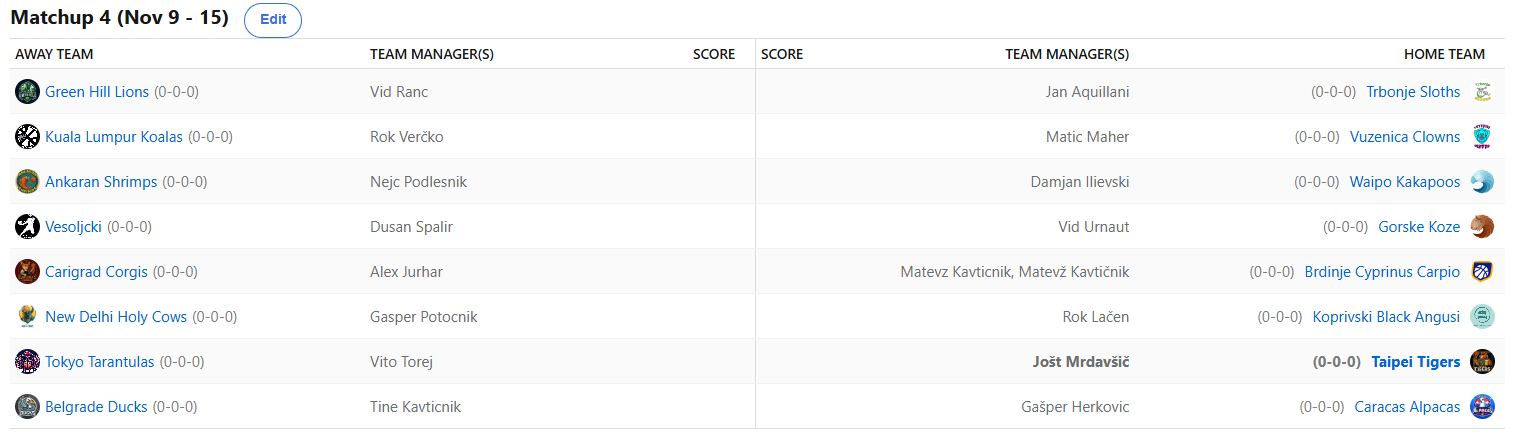
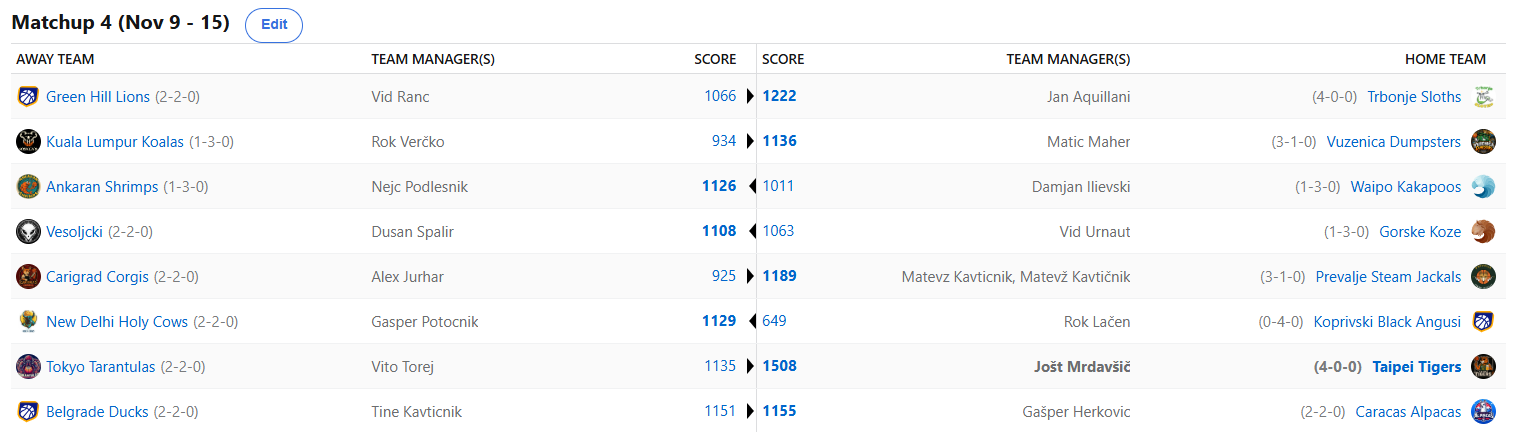
.

diff --git a/trenutnalestvica.html b/trenutnalestvica.html
@@ -25,116 +25,168 @@
         <tr>
             <th style="background-color: green">1</th>
             <th style="background-color: green">Taipei Tigers</th>
-            <th style="background-color: green">3</th>
+            <th style="background-color: green">4</th>
             <th style="background-color: green">0</th>
             <th style="background-color: green">100%</th>
         </tr>
         <tr>
             <th style="background-color: green">2</th>
             <th style="background-color: green">Trbonje Sloths</th>
-            <th style="background-color: green">3</th>
+            <th style="background-color: green">4</th>
             <th style="background-color: green">0</th>
             <th style="background-color: green">100%</th>
         </tr>
         <tr>
             <th>3</th>
-            <th>Tokyo Tarantulas</th>
-            <th>2</th>
+            <th>Vuzenica Dumpsters</th>
+            <th>3</th>
             <th>1</th>
-            <th>67%</th>
+            <th>75%</th>
         </tr>
         <tr>
             <th>4</th>
-            <th>Carigrad Corgis</th>
-            <th>2</th>
+            <th>Prevalje Steam Jackals</th>
+            <th>3</th>
             <th>1</th>
-            <th>67%</th>
+            <th>75%</th>
         </tr>
         <tr>
             <th>5</th>
-            <th>Vuzenica Dumpsters</th>
+            <th>Tokyo Tarantulas</th>
             <th>2</th>
-            <th>1</th>
-            <th>67%</th>
+            <th>2</th>
+            <th>50%</th>
         </tr>
         <tr>
             <th>6</th>
-            <th>Prevalje Steam Jackals</th>
+            <th>Caracas Alpacas</th>
             <th>2</th>
-            <th>1</th>
-            <th>67%</th>
+            <th>2</th>
+            <th>50%</th>
         </tr>
         <tr>
             <th>7</th>
-            <th>Green Hill Lions</th>
+            <th>Belgrade Ducks</th>
             <th>2</th>
-            <th>1</th>
-            <th>67%</th>
+            <th>2</th>
+            <th>50%</th>
         </tr>
         <tr>
             <th>8</th>
-            <th>Belgrade Ducks</th>
+            <th>Carigrad Corgis</th>
             <th>2</th>
-            <th>1</th>
-            <th>67%</th>
+            <th>2</th>
+            <th>50%</th>
         </tr>
         <tr>
             <th>9</th>
-            <th>Caracas Alpacas</th>
-            <th>1</th>
+            <th>Green Hill Lions</th>
             <th>2</th>
-            <th>33%</th>
+            <th>2</th>
+            <th>50%</th>
         </tr>
         <tr>
             <th>10</th>
-            <th>Waipo Kakapos</th>
-            <th>1</th>
+            <th>New Delhi Holy Cows</th>
             <th>2</th>
-            <th>33%</th>
+            <th>2</th>
+            <th>50%</th>
         </tr>
         <tr>
             <th>11</th>
-            <th>Gorske Koze</th>
-            <th>1</th>
+            <th>Veseli Vesoljčki</th>
             <th>2</th>
-            <th>33%</th>
+            <th>2</th>
+            <th>50%</th>
         </tr>
         <tr>
             <th>12</th>
-            <th>New Delhi Holy Cows</th>
+            <th>Gorske Koze</th>
             <th>1</th>
-            <th>2</th>
-            <th>33%</th>
+            <th>3</th>
+            <th>25%</th>
         </tr>
         <tr>
             <th>13</th>
-            <th>Veseli Vesoljčki</th>
+            <th>Waipo Kakapos</th>
             <th>1</th>
-            <th>2</th>
-            <th>33%</th>
+            <th>3</th>
+            <th>25%</th>
         </tr>
         <tr>
             <th>14</th>
-            <th>Kuala Lumpur Koalas</th>
+            <th>Ankaran Shrimps</th>
             <th>1</th>
-            <th>2</th>
-            <th>33%</th>
+            <th>3</th>
+            <th>25%</th>
         </tr>
         <tr>
             <th style="background-color: red">15</th>
-            <th style="background-color: red">Koprivski Black Angusi</th>
-            <th style="background-color: red">0</th>
+            <th style="background-color: red">Kuala Lumpur Koalas</th>
+            <th style="background-color: red">1</th>
             <th style="background-color: red">3</th>
-            <th style="background-color: red">0%</th>
+            <th style="background-color: red">25%</th>
         </tr>
         <tr>
             <th style="background-color: red">16</th>
-            <th style="background-color: red">Ankaran Shrimps</th>
+            <th style="background-color: red">Koprivski Black Angusi</th>
             <th style="background-color: red">0</th>
-            <th style="background-color: red">3</th>
+            <th style="background-color: red">4</th>
             <th style="background-color: red">0%</th>
         </tr>
     </table>  
+	
+	<h2 class="lestvica">Rezultati četrtega kroga</h2>
+<table style="border-collapse: collapse; width: 100%; border: none;">
+	<tr>
+        <td style="border: none; text-align: right; padding-right: 1em; ">🦁 Lions</td> <!-- Ekipa 1 -->
+        <td style="border: 1px solid black; padding: 5px;">1066</td>
+        <td style="border: 1px solid black; padding: 5px; background-color: green">1222</td>
+        <td style="border: none; text-align: left; padding-left: 1em;color: green">Sloths 🦥</td> <!-- Ekipa 2 -->
+    </tr>
+	<tr>
+        <td style="border: none; text-align: right; padding-right: 1em; ">🐨 Koalas  </td> <!-- Ekipa 1 -->
+        <td style="border: 1px solid black; padding: 5px; ">934</td>
+        <td style="border: 1px solid black; padding: 5px;background-color: green">1136</td>
+        <td style="border: none; text-align: left; padding-left: 1em; color: green">Dumpsters 🗑</td> <!-- Ekipa 2 -->
+    </tr>
+	<tr>
+        <td style="border: none; text-align: right; padding-right: 1em; color: green">🦐 Shrimps </td> <!-- Ekipa 1 -->
+        <td style="border: 1px solid black; padding: 5px; background-color: green">1126</td>
+        <td style="border: 1px solid black; padding: 5px; ">1011</td>
+        <td style="border: none; text-align: left; padding-left: 1em; ">Kakapos 🦉  </td> <!-- Ekipa 2 -->
+    </tr>
+	<tr>
+        <td style="border: none; text-align: right; padding-right: 1em; color: green ">👽 Vesoljčki  </td> <!-- Ekipa 1 -->
+        <td style="border: 1px solid black; padding: 5px; background-color: green">1108</td>
+        <td style="border: 1px solid black; padding: 5px;  ">1063</td>
+        <td style="border: none; text-align: left; padding-left: 1em; ">Koze 🐐  </td> <!-- Ekipa 2 -->
+    </tr>
+	<tr>
+        <td style="border: none; text-align: right; padding-right: 1em; ">🐕 Corgis  </td> <!-- Ekipa 1 -->
+        <td style="border: 1px solid black; padding: 5px;">925</td>
+        <td style="border: 1px solid black; padding: 5px; background-color: green ">1189</td>
+        <td style="border: none; text-align: left; padding-left: 1em; color: green  ">Jackals 🐺 </td> <!-- Ekipa 2 -->
+    </tr>
+	<tr>
+        <td style="border: none; text-align: right; padding-right: color: green">🐄 Holy Cows  </td> <!-- Ekipa 1 -->
+        <td style="border: 1px solid black; padding: 5px;background-color: green">1129</td>
+        <td style="border: 1px solid black; padding: 5px;  ">649</td>
+        <td style="border: none; text-align: left; padding-left: 1em; ">Angusi 🐮</td> <!-- Ekipa 2 -->
+    </tr>
+	<tr>
+        <td style="border: none; text-align: right; padding-right: 1em;">🕷 Tarantulas  </td> <!-- Ekipa 1 -->
+        <td style="border: 1px solid black; padding: 5px;">1135</td>
+        <td style="border: 1px solid black; padding: 5px; background-color: green">1508</td>
+        <td style="border: none; text-align: left; padding-left: 1em; color: green">Tigers 🐯</td> <!-- Ekipa 2 -->
+    </tr>
+	<tr>
+        <td style="border: none; text-align: right; padding-right: 1em; ">🦆 Ducks  </td> <!-- Ekipa 1 -->
+        <td style="border: 1px solid black; padding: 5px; ">1151</td>
+        <td style="border: 1px solid black; padding: 5px; background-color: green">1155</td>
+        <td style="border: none; text-align: left; padding-left: 1em; color: green">Alpacas 🦙</td> <!-- Ekipa 2 -->
+    </tr>
+</table>
 	
 	<h2 class="lestvica">Rezultati tretjega kroga</h2>
 <table style="border-collapse: collapse; width: 100%; border: none;">
@@ -241,59 +293,7 @@
     </tr>
 </table>
 	
-	
-     <h2 class="lestvica">Rezultati prvega kroga</h2>
-<table style="border-collapse: collapse; width: 100%; border: none;">
-	<tr>
-        <td style="border: none; text-align: right; padding-right: 1em; color: green">🦥 Sloths</td> <!-- Ekipa 1 -->
-        <td style="border: 1px solid black; padding: 5px; background-color: green">1105</td>
-        <td style="border: 1px solid black; padding: 5px;">842</td>
-        <td style="border: none; text-align: left; padding-left: 1em;">Vesoljčki 👽</td> <!-- Ekipa 2 -->
-    </tr>
-	<tr>
-        <td style="border: none; text-align: right; padding-right: 1em;">🦐 Shrimps</td> <!-- Ekipa 1 -->
-        <td style="border: 1px solid black; padding: 5px;">925</td>
-        <td style="border: 1px solid black; padding: 5px; background-color: green">1131</td>
-        <td style="border: none; text-align: left; padding-left: 1em; color: green">Corgis 🐕</td> <!-- Ekipa 2 -->
-    </tr>
-	<tr>
-        <td style="border: none; text-align: right; padding-right: 1em; color: green">🐨 Koalas</td> <!-- Ekipa 1 -->
-        <td style="border: 1px solid black; padding: 5px; background-color: green">936</td>
-        <td style="border: 1px solid black; padding: 5px;">771</td>
-        <td style="border: none; text-align: left; padding-left: 1em;">Holy Cows 🐄</td> <!-- Ekipa 2 -->
-    </tr>
-	<tr>
-        <td style="border: none; text-align: right; padding-right: 1em;">🦁 Lions</td> <!-- Ekipa 1 -->
-        <td style="border: 1px solid black; padding: 5px;">902</td>
-        <td style="border: 1px solid black; padding: 5px; background-color: green">1026</td>
-        <td style="border: none; text-align: left; padding-left: 1em; color: green">Tarantulas 🕷</td> <!-- Ekipa 2 -->
-    </tr>
-	<tr>
-        <td style="border: none; text-align: right; padding-right: 1em; color: green">🗑 Dumpsters</td> <!-- Ekipa 1 -->
-        <td style="border: 1px solid black; padding: 5px; background-color: green">962</td>
-        <td style="border: 1px solid black; padding: 5px;">825</td>
-        <td style="border: none; text-align: left; padding-left: 1em;">Ducks 🦆</td> <!-- Ekipa 2 -->
-    </tr>
-	<tr>
-        <td style="border: none; text-align: right; padding-right: 1em;">🦉 Kakapos</td> <!-- Ekipa 1 -->
-        <td style="border: 1px solid black; padding: 5px;">807</td>
-        <td style="border: 1px solid black; padding: 5px; background-color: green">1046</td>
-        <td style="border: none; text-align: left; padding-left: 1em; color: green">Alpacas 🦙</td> <!-- Ekipa 2 -->
-    </tr>
-	<tr>
-        <td style="border: none; text-align: right; padding-right: 1em;">🐐 Koze</td> <!-- Ekipa 1 -->
-        <td style="border: 1px solid black; padding: 5px;">867</td>
-        <td style="border: 1px solid black; padding: 5px; background-color: green">932</td>
-        <td style="border: none; text-align: left; padding-left: 1em; color: green">Tigers 🐯</td> <!-- Ekipa 2 -->
-    </tr>
-	<tr>
-        <td style="border: none; text-align: right; padding-right: 1em; color: green">🐺 Jackals</td> <!-- Ekipa 1 -->
-        <td style="border: 1px solid black; padding: 5px; background-color: green">922</td>
-        <td style="border: 1px solid black; padding: 5px;">852</td>
-        <td style="border: none; text-align: left; padding-left: 1em;">Angusi 🐮</td> <!-- Ekipa 2 -->
-    </tr>
-</table>
-    <br><br>
+
     
 
    

diff --git a/krogi2627/matchup4.html b/krogi2627/matchup4.html
@@ -54,13 +54,13 @@ document.addEventListener("DOMContentLoaded", function() {{
                 <details>
                     <summary>Predictions</summary>
                     <h3>Lestvica</h3>
-                    <img src="matchup4_lestvica.png" alt="Predictions - lestvica, matchup 4">
+                    <img src="mup4lestvica.png" alt="Predictions - lestvica, matchup 4">
                     <h3>Točke v krogu</h3>
-                    <img src="matchup4_tocke.png" alt="Predictions - točke v krogu, matchup 4">
+                    <img src="mup4pregled.png" alt="Predictions - točke v krogu, matchup 4">
                     <h3>Matchups</h3>
-                    <img src="matchup4_matchups.png" alt="Predictions - matchups, matchup 4">
+                    <img src="mup4mups.png" alt="Predictions - matchups, matchup 4">
                     <h3>Bonusi</h3>
-                    <img src="matchup4_bonusi.png" alt="Predictions - bonusi, matchup 4">
+                    <img src="mup4bonusi.png" alt="Predictions - bonusi, matchup 4">
                 </details>
 
                 <details>
@@ -71,6 +71,9 @@ document.addEventListener("DOMContentLoaded", function() {{
 						<br><br>
 						<h3 style="text-align: center">So long, partner!</h3>
 						<img src="solong.png">
+						<br><br>
+						<h3 style="text-align: center">Corgis</h3>
+						<img src="corgis.png">
                     </div>
                 </details>
             <br><br>
